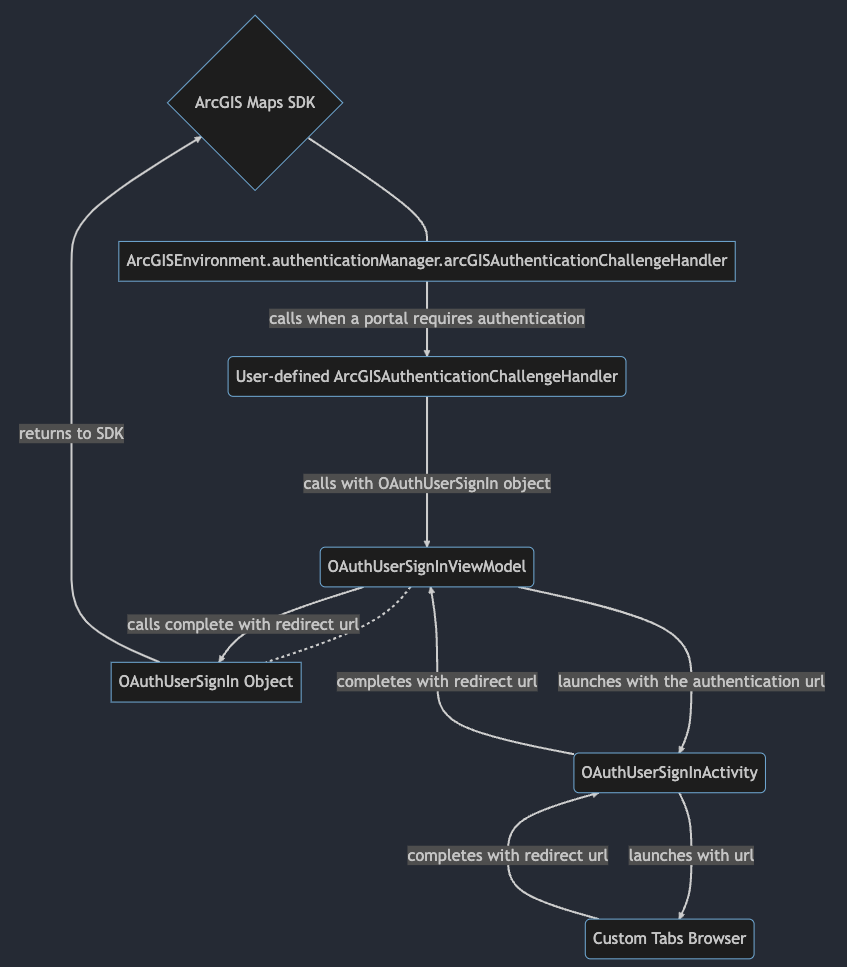
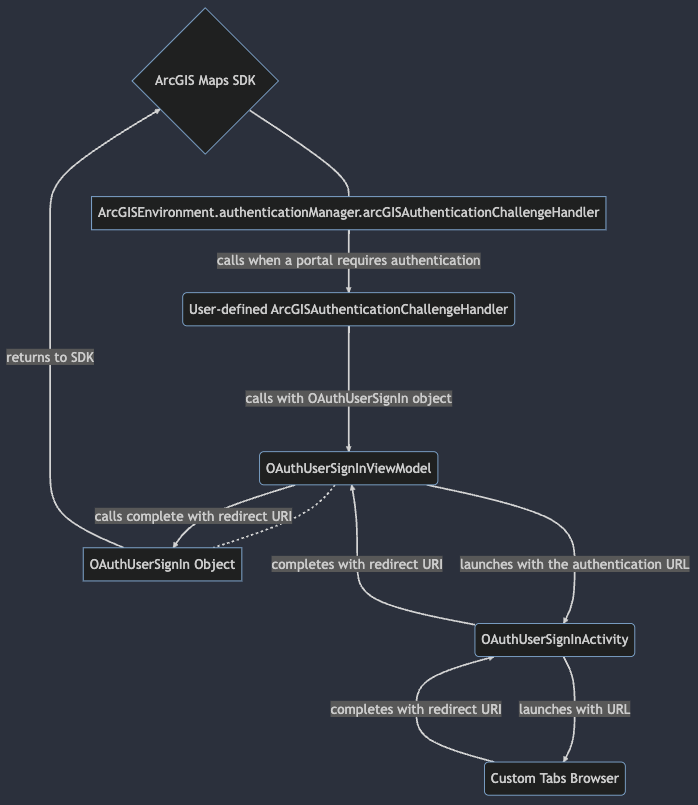
PR feedback

diff --git a/authenticate-with-oauth/src/main/java/com/esri/arcgismaps/sample/authenticatewithoauth/MainActivity.kt b/authenticate-with-oauth/src/main/java/com/esri/arcgismaps/sample/authenticatewithoauth/MainActivity.kt
@@ -98,7 +98,7 @@ class MainActivity : AppCompatActivity() {
     }
 
     /**
-     * Sets up the [ArcGISAuthenticationChallengeHandler] to create a
+     * Sets up the [ArcGISAuthenticationChallengeHandler] to create an
      * [OAuthUserCredential] by launching a browser page to perform a OAuth user
      * login prompt using [oAuthUserSignInViewModel]
      */

diff --git a/authenticate-with-oauth/README.md b/authenticate-with-oauth/README.md
@@ -14,9 +14,9 @@ When you run the sample, the app will load a web map which contains premium cont
 
 ## Use of Model View ViewModel (MVVM)
 
-This sample takes advantage of Android's `ViewModel` to encapsulate launching the OAuth user sign in prompt, establishing the activity result contract, verifying the OAuth user's credentials.
+This sample takes advantage of Android's `ViewModel` to encapsulate launching the OAuth user sign in prompt, establishing the activity result contract, and verifying the OAuth user's credentials.
 
-1. An Activity which launches a custom tab intent and sets its own result to the redirect url of the custom tab's result
+1. An Activity which launches a custom tab intent and sets its own result to the redirect URI of the custom tab's result
 2. A ViewModel which launches the above activity when prompted, and when it receives the result, passes it through to the `OAuthUserSignIn` object
 3. An `ArcGISAuthenticationChallengeHandler` which prompts the ViewModel to start the sign in process with a URL if it is valid.
 
@@ -24,12 +24,12 @@ This sample takes advantage of Android's `ViewModel` to encapsulate launching th
 
 ## How it works
 
-1. Set the `AuthenticationManager`'s `arcGISAuthenticationChallengeHandler` to a `ArcGISAuthenticationChallengeHandler`.
-2. Create an `OAuthConfiguration` specifying the portal URL, client ID, and redirect URL.
-3. Add the OAuth configuration to the authentication manager using `OAuthUserCredential.create(oAuthConfiguration)` to get a `OAuthUserSignIn`.
-4. Set up `ViewModel` responsible for launching an OAuth user sign in prompt and retrieve the authorized redirect URI
-5. Set the URI to complete the sign in using, `OAuthUserSignIn.complete(redirectUri)`
-6. Load a map with premium content requiring authentication to automatically invoke the default authentication handler.
+1. Create an `OAuthConfiguration` specifying the portal URL, client ID, and redirect URI.
+2. Create an `OAuthUserSignInActivity` that will launch the sign in page in a Custom Tab and  receive & process the redirect intent when completing the Custom Tab prompt.
+3. Set up `ViewModel` responsible for launching an OAuth user sign in prompt and retrieving the authorized redirect URI
+4. Crete an `ArcGISAuthenticationChallengeHandler` that checks if the `ArcGISAuthenticationChallenge.requestUrl` matches the `OAUthUserConfiguration's`  with `canBeUserdForUrl()`. If the challenge matches, then create a `OAuthUserCredential` by Invoking the `OAuthUserSignInViewModel.promptForOAuthUserSignIn`
+5. Set the `AuthenticationManager`'s `arcGISAuthenticationChallengeHandler` to the `ArcGISAuthenticationChallengeHandler` created above.
+6. Load a map with premium content requiring authentication to automatically invoke the `ArcGISAuthenticationHandler`.
 
 ## Relevant API
 
@@ -47,7 +47,9 @@ The sample uses an `ActivityResultContract` to get the response from the OAuth u
 
 The workflow presented in this sample works for all SAML based enterprise (IWA, PKI, Okta, etc.) & social (facebook, google, etc.) identity providers for ArcGIS Online or Portal. For more information, see the topic [Set up enterprise logins](https://doc.arcgis.com/en/arcgis-online/administer/enterprise-logins.htm).
 
-For additional information on using Oauth in your app, see the topic [Authenticate with the API](https://developers.arcgis.com/documentation/core-concepts/security-and-authentication/mobile-and-native-user-logins/) in *Mobile and Native Named User Login*.
+For additional information on using Oauth in your app, see the topic [Authenticate with the API](https://developers.arcgis.com/documentation/core-concepts/security-and-authentication/mobile-and-native-user-logins/) in *Mobile and Native Named User Login*. 
+
+For more information on how OAuth works visit [OAuth 2.0 with ArcGIS](https://developers.arcgis.com/documentation/mapping-apis-and-services/security/oauth-2.0/)
 
 ## Tags
 
